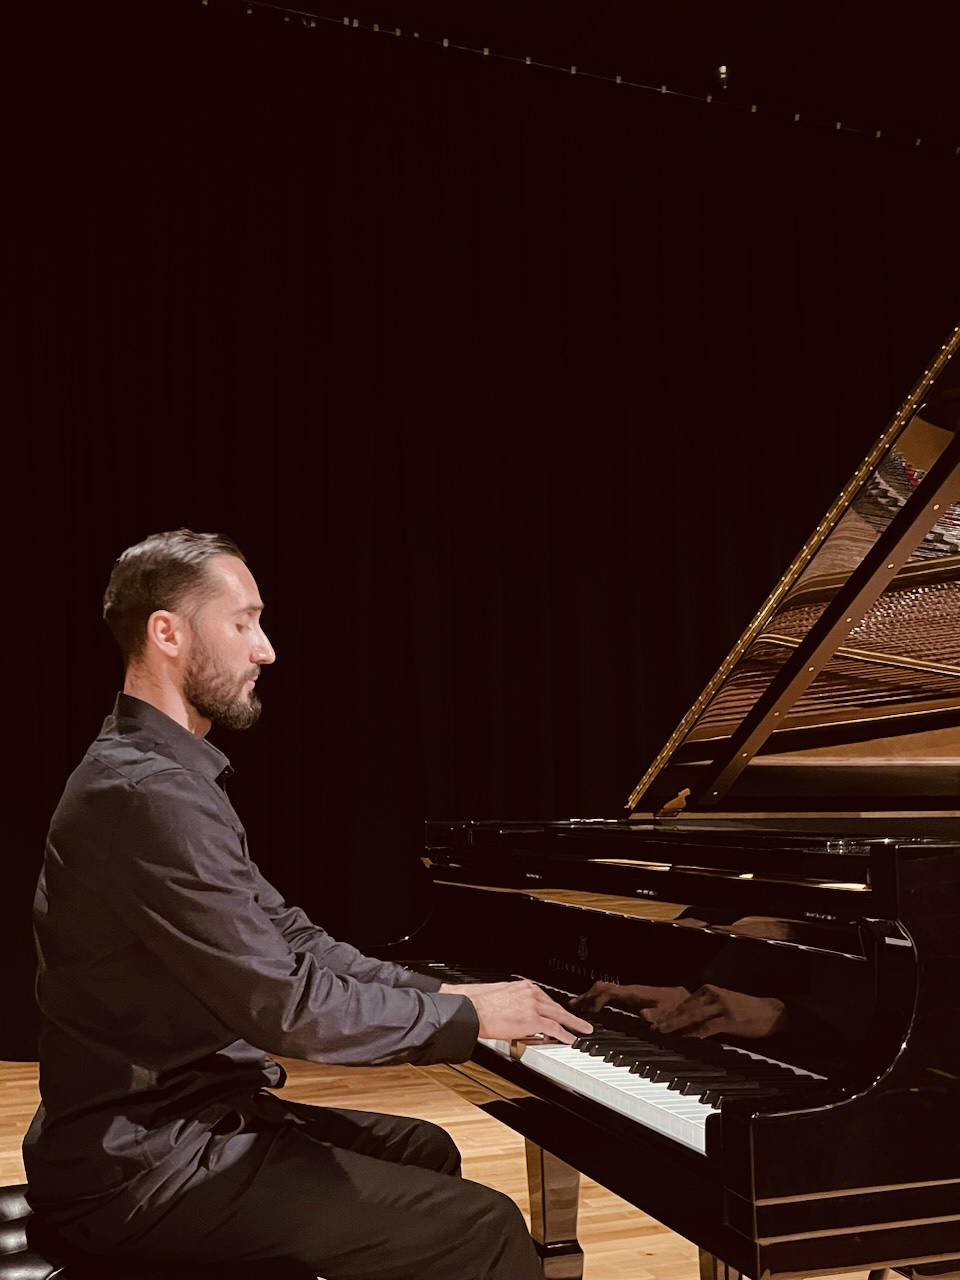
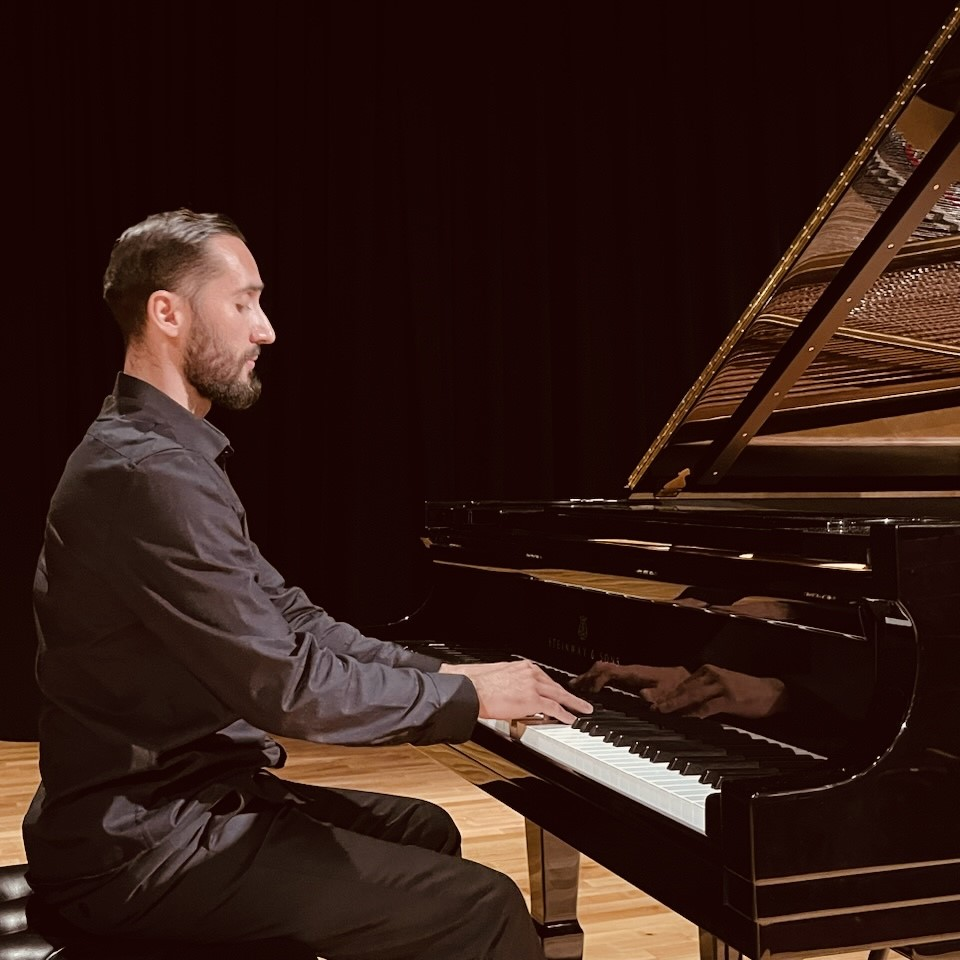
changes

diff --git a/assets/css/main.css b/assets/css/main.css
@@ -2114,7 +2114,7 @@ button,
   display: -webkit-flex;
   display: -ms-flex;
   display: flex; 
-  height: 550px;}
+  height: 800px;}
   #banner h1 {
     margin-top: -0.125em; }
   #banner .content {
@@ -2137,7 +2137,8 @@ button,
     -ms-flex-shrink: 0;
     flex-shrink: 0;
     display: block;
-    margin: 0 0 2em 4em; }
+    margin: 0 0 2em 4em;
+    width: 50%; }
     #banner .image img {
       height: 100%;
       -moz-object-fit: cover;
